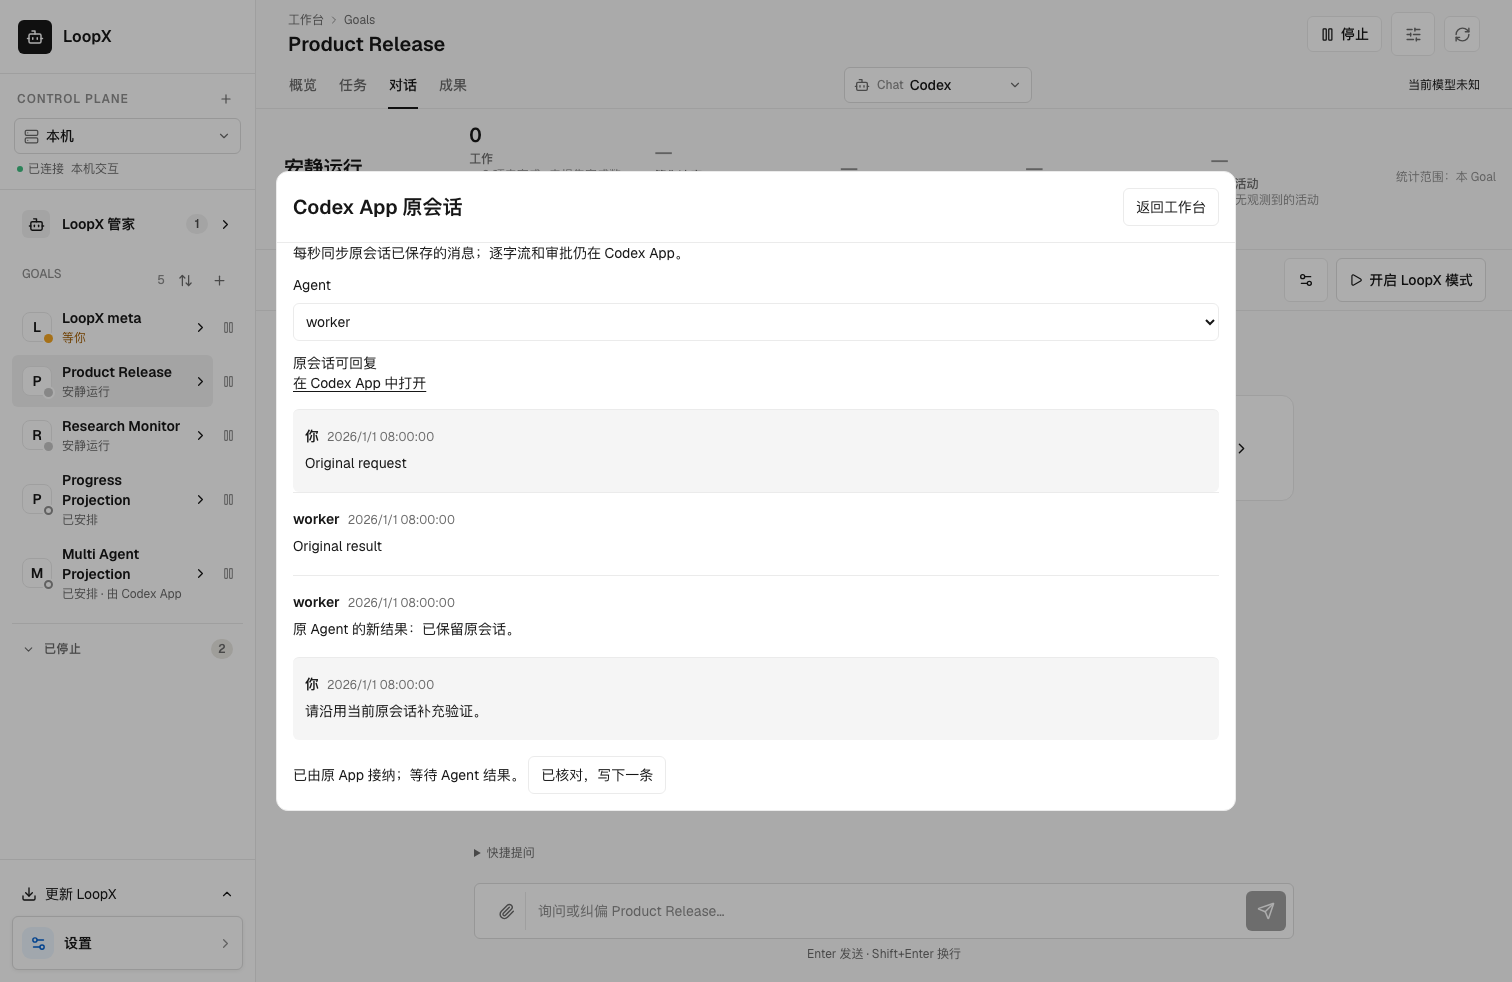
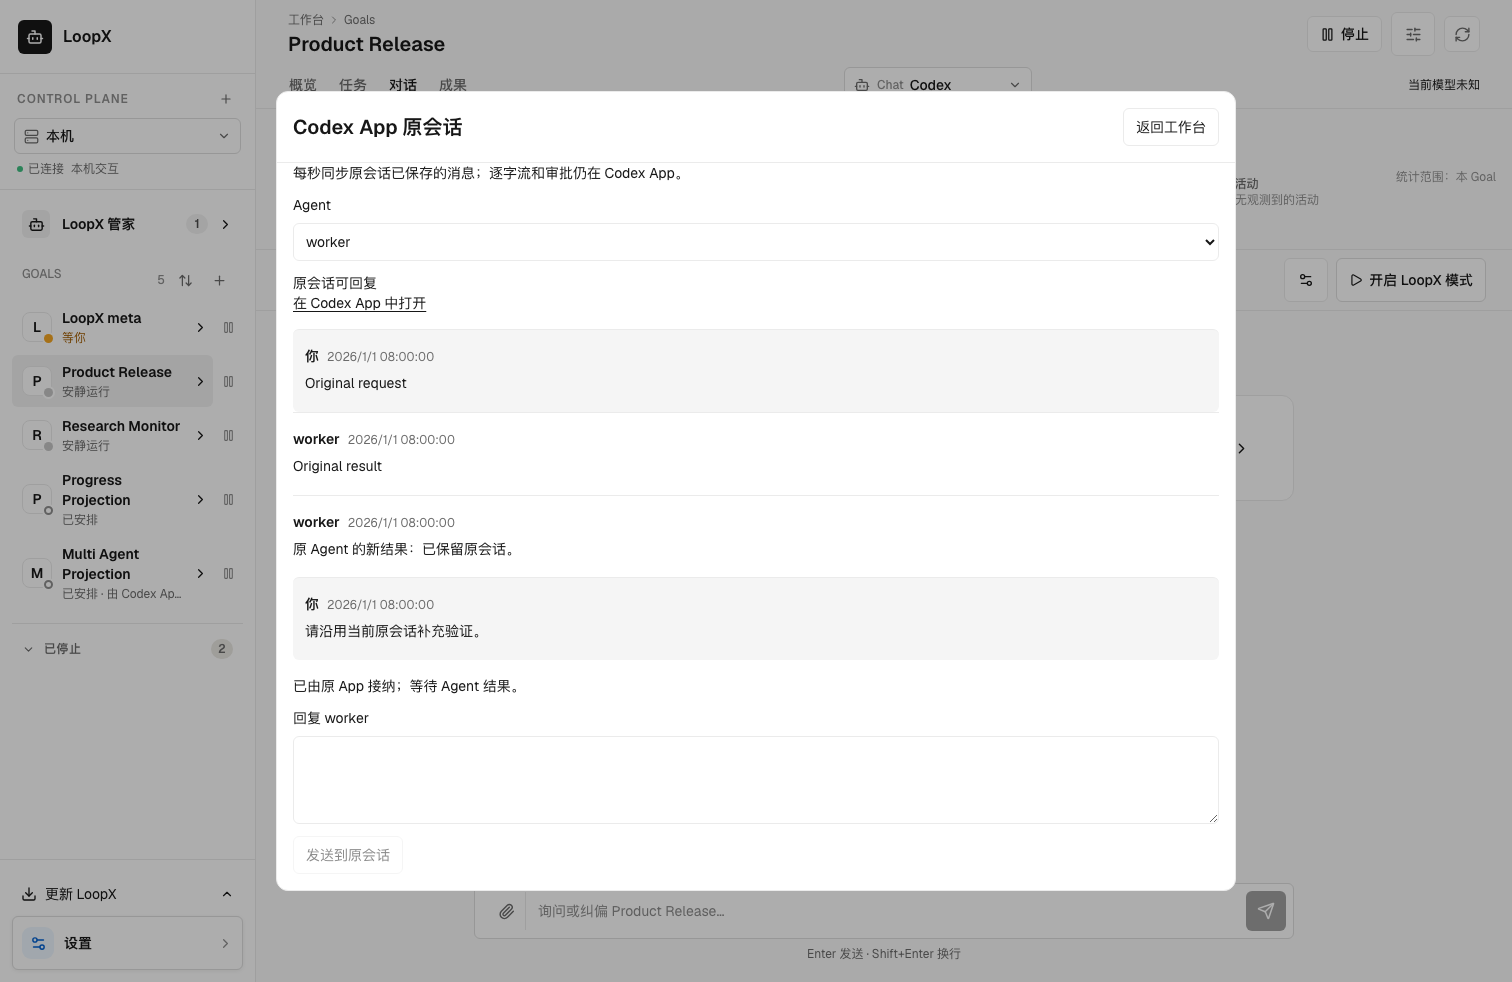
fix(chat): keep confirmed original replies ready for follow-up

diff --git a/apps/presentation/dashboard/src/features/personal-workspace/attached-agent-conversations.tsx b/apps/presentation/dashboard/src/features/personal-workspace/attached-agent-conversations.tsx
@@ -42,6 +42,7 @@ export function AttachedAgentConversations({goalId, zh}: {goalId: string; zh: bo
     else if (!open && dialog.current?.open) dialog.current.close();
   }, [open]);
   const binding = agents.find(agent => agent.agent_id === selected);
+  const awaitingReceipt = Boolean(submission?.status && submission.status !== "delivered");
   const cacheKey = binding ? `loopx-attached-input:${goalId}:${binding.binding_ref}` : "";
   const query = binding ? new URLSearchParams({goal_id: goalId, agent_id: binding.agent_id, binding_ref: binding.binding_ref}) : null;
 
@@ -66,7 +67,7 @@ export function AttachedAgentConversations({goalId, zh}: {goalId: string; zh: bo
       if (stored) {
         const pending = JSON.parse(stored) as Submission;
         if (!pending || typeof pending.operation_id !== "string" || typeof pending.text !== "string" || !["pending", "delivered"].includes(pending.status ?? "")) throw new Error("Invalid recovery record");
-        setDraft(pending.text); setSubmission(pending);
+        setDraft(pending.status === "delivered" ? "" : pending.text); setSubmission(pending);
       }
     } catch {setRecoveryError(zh ? "浏览器回复恢复记录不可读，暂不能安全发送。请先在原 App 核对。" : "Reply recovery is unreadable; check the original App before clearing it.");}
     let timer: ReturnType<typeof setTimeout>;
@@ -121,9 +122,9 @@ export function AttachedAgentConversations({goalId, zh}: {goalId: string; zh: bo
   }
 
   async function send() {
-    if (!binding || sending || error || recoveryError || !snapshot?.can_reply || !draft.trim() || submission?.status) return;
+    if (!binding || sending || error || recoveryError || !snapshot?.can_reply || !draft.trim() || awaitingReceipt) return;
     const current = generation.current;
-    const pending = submission ?? {operation_id: crypto.randomUUID(), text: draft, status: "pending"};
+    const pending = {operation_id: crypto.randomUUID(), text: draft, status: "pending"};
     try {sessionStorage.setItem(cacheKey, JSON.stringify(pending));}
     catch {setError(zh ? "无法保存回复回执，未发送。" : "Cannot save reply recovery; nothing was sent."); return;}
     setSubmission(pending); setSending(true);
@@ -132,6 +133,7 @@ export function AttachedAgentConversations({goalId, zh}: {goalId: string; zh: bo
       if (current === generation.current) {
         const delivered = {...pending, status: result.status};
         sessionStorage.setItem(cacheKey, JSON.stringify(delivered)); setSubmission(delivered);
+        if (result.status === "delivered") setDraft("");
         revision.current = "";
       }
     } catch (failure) {if (current === generation.current) setError(String(failure));}
@@ -146,6 +148,7 @@ export function AttachedAgentConversations({goalId, zh}: {goalId: string; zh: bo
       if (current === generation.current) {
         const next = {...submission, status: receipt.status};
         sessionStorage.setItem(cacheKey, JSON.stringify(next)); setSubmission(next);
+        if (receipt.status === "delivered") {setDraft(""); setRecoveryError("");}
       }
     } catch (failure) {if (current === generation.current) setRecoveryError(String(failure));}
   }
@@ -172,7 +175,8 @@ export function AttachedAgentConversations({goalId, zh}: {goalId: string; zh: bo
           {messages.map(message => <article key={message.id} data-role={message.role}><header><strong>{message.role === "user" ? (zh ? "你" : "You") : binding.agent_id}</strong> {message.timestamp ? <time>{new Date(message.timestamp).toLocaleString()}</time> : null}</header><MarkdownText text={message.text}/>{message.truncated ? <p>{zh ? "此消息已截短；完整内容见原 App。" : "Message shortened; open the original App for full content."}</p> : null}</article>)}
           {!messages.length && snapshot ? <p>{zh ? "当前有界历史窗口内没有可显示的消息，可读取更早记录。" : "No displayable messages in this bounded window; read earlier records."}</p> : null}
         </div>
-        {submission?.status ? <p role="status">{submission.status === "delivered" ? (zh ? "已由原 App 接纳；等待 Agent 结果。" : "Accepted by the original App; awaiting the Agent result.") : (zh ? "投递尚未确认，请先在原 App 核对，不会自动重发。" : "Delivery unconfirmed; check the original App. No automatic resend.")} {submission.status === "pending" ? <button type="button" disabled={sending} onClick={() => void readReceipt()}>{zh ? "重读投递回执" : "Recheck delivery receipt"}</button> : null}<button type="button" disabled={sending} onClick={nextReply}>{zh ? "已核对，写下一条" : "Checked; write another"}</button></p> : <form onSubmit={event => {event.preventDefault(); void send();}}><label>{zh ? `回复 ${binding.agent_id}` : `Reply to ${binding.agent_id}`}<textarea value={draft} maxLength={24000} disabled={sending} onChange={event => {setDraft(event.target.value); setSubmission(null);}}/></label><button type="submit" disabled={sending || Boolean(error || recoveryError) || !snapshot?.can_reply || !draft.trim()}>{sending ? (zh ? "正在交给原 App…" : "Sending to original App…") : (zh ? "发送到原会话" : "Send to original conversation")}</button></form>}
+        {submission?.status ? <p role="status">{submission.status === "delivered" ? (zh ? "已由原 App 接纳；等待 Agent 结果。" : "Accepted by the original App; awaiting the Agent result.") : (zh ? "投递尚未确认，请先在原 App 核对，不会自动重发。" : "Delivery unconfirmed; check the original App. No automatic resend.")} {submission.status === "pending" ? <button type="button" disabled={sending} onClick={() => void readReceipt()}>{zh ? "重读投递回执" : "Recheck delivery receipt"}</button> : null}{awaitingReceipt ? <button type="button" disabled={sending} onClick={nextReply}>{zh ? "已核对，写下一条" : "Checked; write another"}</button> : null}</p> : null}
+        {!awaitingReceipt ? <form onSubmit={event => {event.preventDefault(); void send();}}><label>{zh ? `回复 ${binding.agent_id}` : `Reply to ${binding.agent_id}`}<textarea value={draft} maxLength={24000} disabled={sending} onChange={event => {setDraft(event.target.value); setSubmission(null);}}/></label><button type="submit" disabled={sending || Boolean(error || recoveryError) || !snapshot?.can_reply || !draft.trim()}>{sending ? (zh ? "正在交给原 App…" : "Sending to original App…") : (zh ? "发送到原会话" : "Send to original conversation")}</button></form> : null}
       </> : null}
     </div>
     </dialog>

diff --git a/examples/personal-workspace-browser/codex_attached_fixture.py b/examples/personal-workspace-browser/codex_attached_fixture.py
@@ -23,7 +23,9 @@ with (
     tempfile.TemporaryDirectory(prefix="lx-ui-", dir="/tmp") as directory,
     ExitStack() as patches,
 ):
-    with fixture(Path(directory), goal_id="product-release") as (
+    with fixture(
+        Path(directory), goal_id="product-release", uncertain="--uncertain" in sys.argv
+    ) as (
         request,
         rollout,
         _methods,
@@ -58,6 +60,8 @@ with (
             def do_GET(self):
                 if self.path == "/fixture/opened":
                     self._send_json({"ok": True, "count": len(launches)})
+                elif self.path == "/fixture/inputs":
+                    self._send_json({"ok": True, "count": len(_inputs)})
                 else:
                     super().do_GET()
 
@@ -67,6 +71,30 @@ with (
                     append_message(
                         rollout, "assistant", "原 Agent 的新结果：已保留原会话。"
                     )
+                    with rollout.open("a") as stream:
+                        stream.write(
+                            json.dumps(
+                                {
+                                    "type": "event_msg",
+                                    "timestamp": "2026-01-01T00:00:03Z",
+                                    "payload": {"type": "task_complete"},
+                                }
+                            )
+                            + "\n"
+                        )
+                    self._send_json({"ok": True})
+                elif self.path == "/fixture/busy":
+                    with rollout.open("a") as stream:
+                        stream.write(
+                            json.dumps(
+                                {
+                                    "type": "event_msg",
+                                    "timestamp": "2026-01-01T00:00:02Z",
+                                    "payload": {"type": "task_started"},
+                                }
+                            )
+                            + "\n"
+                        )
                     self._send_json({"ok": True})
                 elif self.path == "/fixture/rebind":
                     value = json.loads(registry.read_text())

diff --git a/docs/integrations/session-runtime-control-plane-adapter.md b/docs/integrations/session-runtime-control-plane-adapter.md
@@ -98,6 +98,15 @@ artifact, or human decision not yet recorded.
 
 ## Experimental owner-local Codex App conversations
 
+This is a follow-up path for an owner already reviewing a Goal: read a specific
+Agent's result, give it a correction and keep the original conversation. It is
+not the general Goal entrypoint or a replacement for the native App. The useful
+product comparison is the complete task, including finding the right Agent,
+understanding its result and recovering an interrupted reply. An additional
+chat window or successful transport alone does not establish a better experience
+than working in Codex App. Goal progress and acceptance still come from their
+existing owners, never from the transcript or an input acknowledgement.
+
 The Goal **Chat** view can open **Original Codex App conversations**, select a
 registered Agent, read its original saved messages and send a plain-text reply
 when that conversation is observed idle. Closing the dialog stops observation;
@@ -124,7 +133,10 @@ complete attached-session acceptance or Lark parity.
 
 Input receipts contain an operation id, binding, content fingerprint and native
 acknowledgement, without copying the message body. The same operation cannot be
-sent twice. An unacknowledged submission remains pending: reopening can read its
+sent twice. A confirmed submission clears the draft and leaves the next reply
+composer available, including after reload; it does not require a second human
+acknowledgement. Sending again still requires an explicit new message and a fresh
+idle observation. An unacknowledged submission remains pending: reopening can read its
 receipt, but never silently retries a native effect. Check the original App
 before discarding an uncertain receipt. The UI keeps only its reply recovery
 record in the current browser session. Replies are explicit local owner actions;

diff --git a/docs/architecture/rfcs/desktop-execution-frontends-v0.md b/docs/architecture/rfcs/desktop-execution-frontends-v0.md
@@ -1030,6 +1030,13 @@ See the [provider boundary and operation](../../integrations/session-runtime-con
 This is an experimental provider proposal, not full Slice B acceptance:
 token deltas, busy-turn steering/queueing, approval callbacks, native live-send
 qualification, Windows transport and installed adoption remain separate gaps.
+Its bounded user task is following up with a specific Agent while reviewing
+Goal work. Confirmed input leaves the composer ready without a redundant
+acknowledgement; uncertain input still requires recovery before another send.
+The separate conversation window remains an interim entry. Evaluate subsequent
+integration against selecting the original conversation in Codex App, including
+target discovery, correction and result readback; transport success alone does
+not establish a shorter task path, independent acceptance or G1 completion.
 
 ### Slice C: managed reference vertical
 

diff --git a/examples/personal-workspace-browser/screenshots/codex-attached/README.md b/examples/personal-workspace-browser/screenshots/codex-attached/README.md
@@ -14,4 +14,6 @@ node examples/personal-workspace-browser-smoke.mjs
 
 The scenario writes current screenshots under `output/playwright/personal-workspace`.
 The checked-in images document the proposed entry, desktop conversation, narrow
-conversation and explicit open-failure state; they are not golden pixel oracles.
+conversation, explicit open-failure state and unconfirmed delivery; they are not
+golden pixel oracles. Confirmed delivery keeps an empty composer available;
+unconfirmed delivery exposes receipt recovery and never automatically resends.
